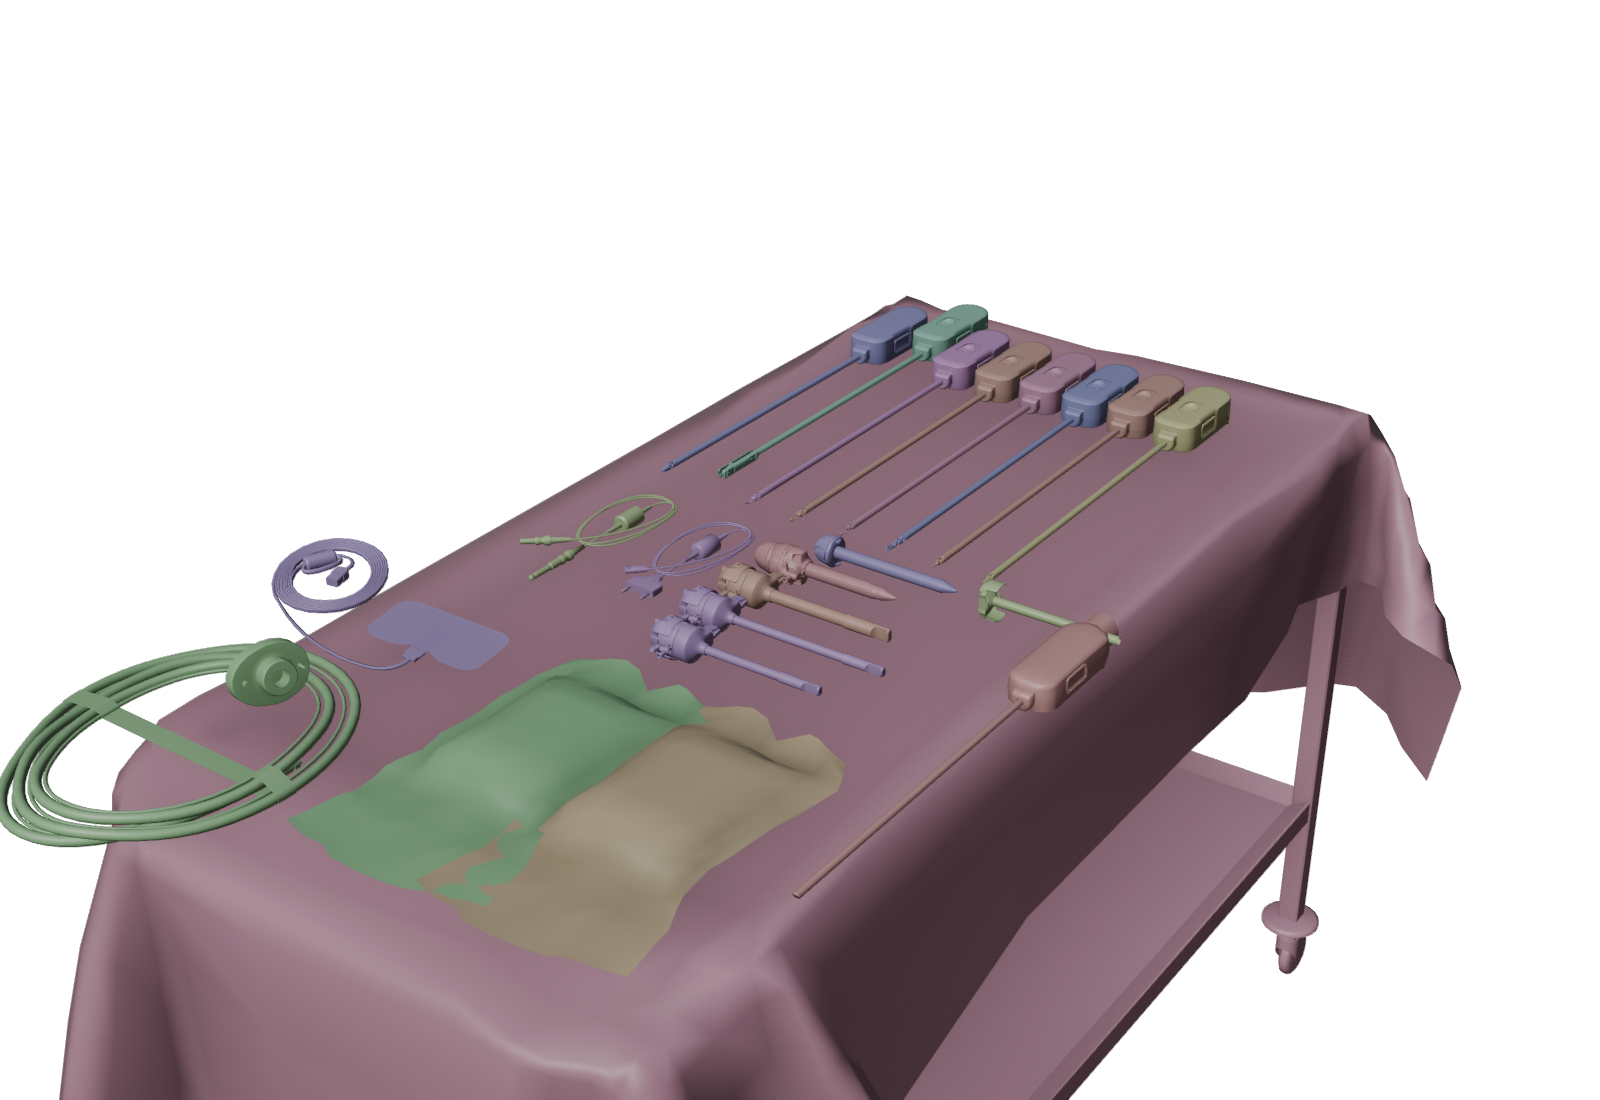
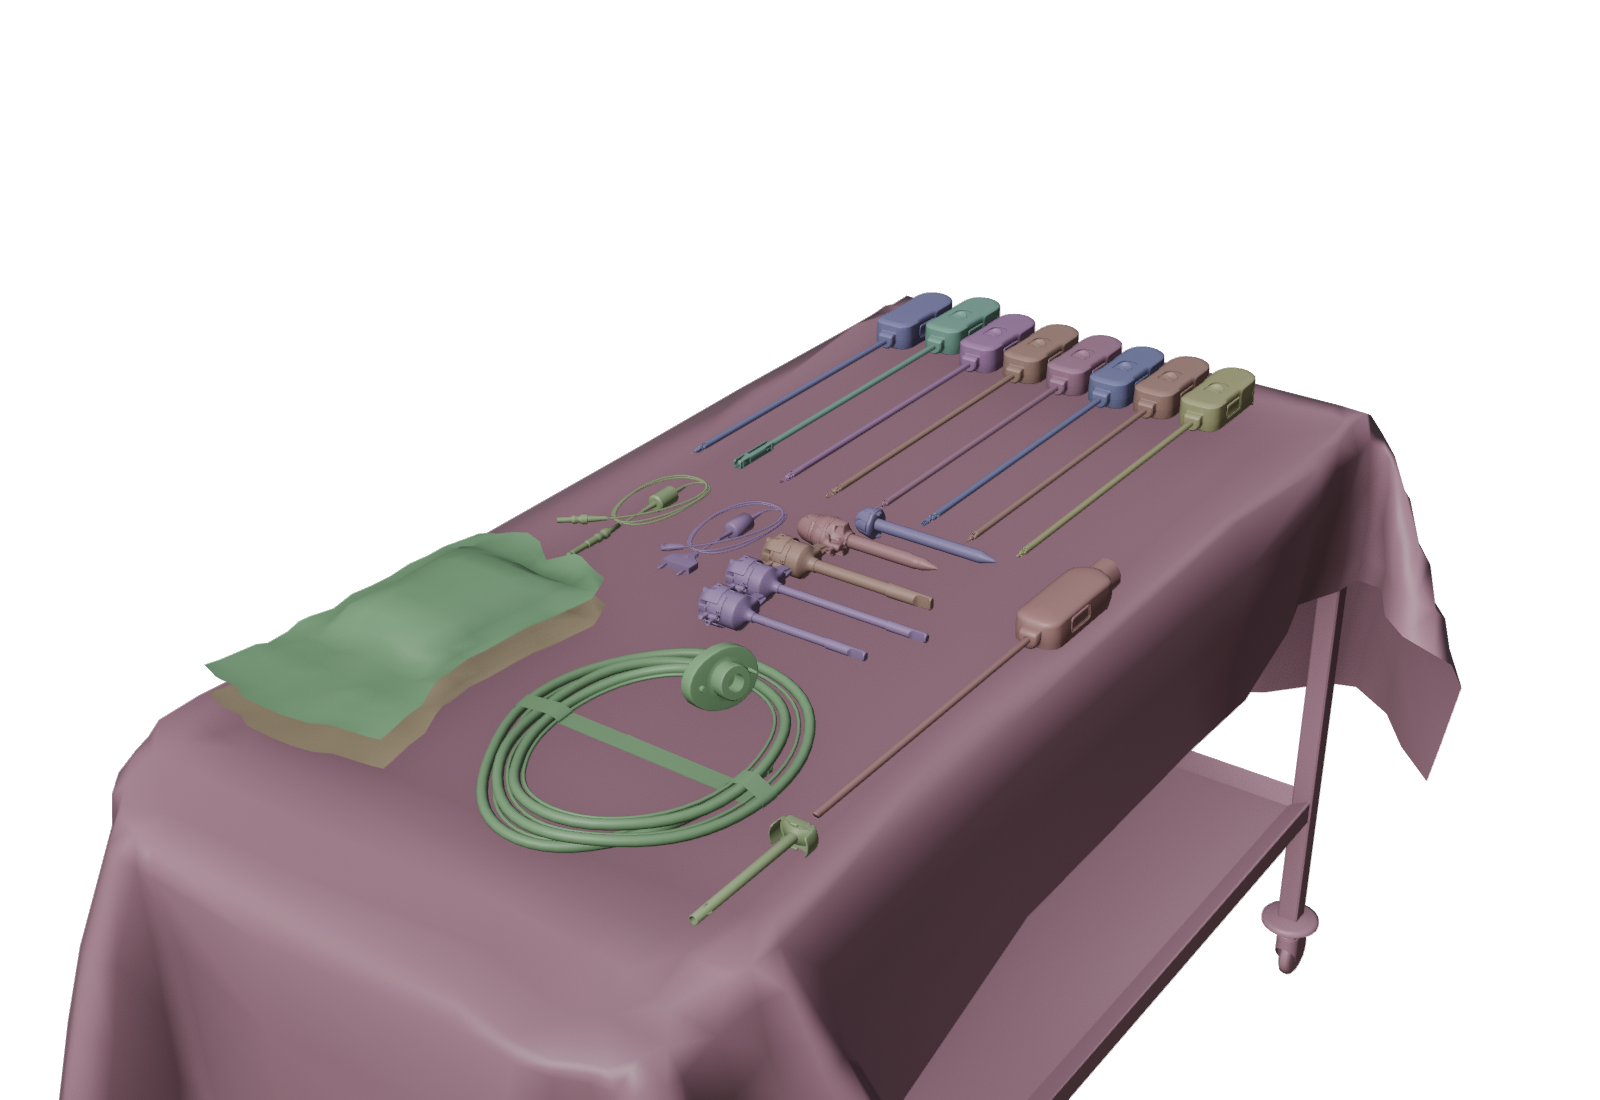
OTTAVA back table v2 layout: fit every item on the measured tabletop (drapes stacked, rack + trocars rearward, scope + downsizer right strip), drop return pad

Changed region(s): [[0.0, 0.4018, 0.7188, 0.8655], [0.5312, 0.2473, 0.7812, 0.4327]]

diff --git a/ottava-back-table.html b/ottava-back-table.html
@@ -230,8 +230,8 @@
   // Order and placement are illustrative for the PoC (Sean: "placement and order aren't paramount").
   const GROUPS=[
     {title:"Sterile drapes", items:[
-      {node:"drape_1", name:"Sterile drape pack 1", zone:"Front center, right", desc:"Sterile robotic arm drape, still folded in its pack. Lay it flat so the pack can be opened without dragging across other items."},
-      {node:"drape_2", name:"Sterile drape pack 2", zone:"Front center, left", desc:"Second arm drape pack, placed beside the first so both are reachable when the arms are draped."},
+      {node:"drape_1", name:"Sterile drape pack 1", zone:"Front left", desc:"Sterile robotic arm drape, still folded in its pack. Lay it flat so the pack can be opened without dragging across other items."},
+      {node:"drape_2", name:"Sterile drape pack 2", zone:"Front left, stacked on pack 1", desc:"Second arm drape pack, stacked squarely on the first so both are reachable when the arms are draped."},
     ]},
     {title:"Access", items:[
       {node:"trocar_8mm_std", name:"8 mm standard trocar", zone:"Center row, rear", desc:"Standard-length 8 mm trocar assembly: cannula, obturator, seal and tip cap. Tip pointing away from the sterile field edge."},
@@ -239,11 +239,11 @@
       {node:"trocar_12mm_std", name:"12 mm standard trocar", zone:"Center row", desc:"12 mm trocar for the larger-diameter instruments and specimen retrieval. Lies in line with the 8 mm trocars."},
       {node:"trocar_15mm", name:"15 mm trocar", zone:"Center row", desc:"15 mm sleeve with its obturator seated. Used where a stapler or larger device will pass."},
       {node:"obturator_15mm", name:"15 mm obturator", zone:"Center row, front", desc:"Spare 15 mm obturator, kept beside the 15 mm trocar."},
-      {node:"downsizer_12mm_std", name:"12 mm downsizer", zone:"Center row, right", desc:"Reducer that lets a smaller instrument pass through the 12 mm port without losing insufflation."},
+      {node:"downsizer_12mm_std", name:"12 mm downsizer", zone:"Right edge, front", desc:"Reducer that lets a smaller instrument pass through the 12 mm port without losing insufflation."},
     ]},
     {title:"Visualization and insufflation", items:[
       {node:"webbLiteEndo_30", name:"30° endoscope", zone:"Right edge", desc:"Angled endoscope with its light cable. Lies along the right edge, lens toward the rear, so the shaft is never under another item."},
-      {node:"insufflationTubing", name:"Insufflation tubing", zone:"Front left", desc:"Coiled, strapped insufflation tubing. Stays coiled until the first trocar is in and the line is handed off."},
+      {node:"insufflationTubing", name:"Insufflation tubing", zone:"Front center", desc:"Coiled, strapped insufflation tubing. Stays coiled until the first trocar is in and the line is handed off."},
     ]},
     {title:"Instruments", items:[
       {node:"mHook", name:"Monopolar hook", zone:"Rear rack, position 1", desc:"Monopolar energy hook. First instrument in the rack, far left, handle toward the rear."},
@@ -255,10 +255,9 @@
       {node:"largeNeedleDriver", name:"Large needle driver", zone:"Rear rack, position 7", desc:"Standard needle driver for suturing. Seventh rack position."},
       {node:"xL_needleDriver", name:"Extra-large needle driver", zone:"Rear rack, position 8", desc:"Extra-large needle driver for heavier suture. Last rack position, far right."},
     ]},
-    {title:"Energy and accessories", items:[
+    {title:"Energy", items:[
       {node:"monopolarCable_coil", name:"Monopolar cable", zone:"Left, middle", desc:"Coiled monopolar cable. Left of the instrument row, ready to connect to the hook and scissors."},
       {node:"bipolarCable_coil", name:"Bipolar cable", zone:"Left, middle", desc:"Coiled bipolar cable, beside the monopolar cable, for the Maryland and fenestrated forceps."},
-      {node:"returnPad", name:"Patient return pad", zone:"Left, front", desc:"Return electrode with its coiled cord. Last item on the table; it goes to the patient before any monopolar energy is used."},
     ]},
   ];
   const ITEMS=[]; GROUPS.forEach((g,gi)=>g.items.forEach((it,ii)=>ITEMS.push(Object.assign({gi,ii},it))));

diff --git a/hub/index.html b/hub/index.html
@@ -82,7 +82,7 @@
       <td><b>OTTAVA back table setup, education PoC for Sean Peterson (J&amp;J Institute).</b> Learn mode: 21 items slide onto the back table one per step in use order (drapes, trocars, scope + insufflation, 8 wristed instruments, cables + return pad) and stay placed; per-item camera framing. Quiz mode: "what goes on the table next?" multiple choice, hint ghosts the item in place, item animates on after each answer; end summary with score, time, hints, miss list. Phone-first layout.</td>
       <td class="d">2026-10-02</td>
       <td class="u"><code>75b563ef-48ef-416f-8f1d-3789b2fb91ec</code> (DCicero / <code>jj-demo</code>, @vntana/viewer bundle, env studio.hdr). Merged GLB built by <code>admin/ottava/merge.py</code> + <code>layout.json</code> from 21 individual J&amp;J assets copied into jj-demo (29 UUIDs in the project memory).</td>
-      <td class="n"><b>OTTAVA is pre-launch and under NDA: do not list this page anywhere public, do not forward outside J&amp;J + VNTANA.</b> Page is gated with access code <code>JohnsonPOC2027</code> (client-side SHA-256 check, case-insensitive, remembered per browser session; a soft gate, not a security control). Sequence and placement are illustrative (Sean: not paramount). Positions come from J&amp;J's rigged composite (instruments_and_accessories_web_v016), which is one fused skinned mesh so it is reference only. Dropped for v1: liver retractor (L-shaped, not on J&amp;J's table), trays (hidden in J&amp;J's composite), universalSealPack (never uploaded at J&amp;J). Phase-2 idea: J&amp;J's 35 instrument-handling clips as per-item "how to prep" buttons if the viewer can play named clips.</td></tr>
+      <td class="n"><b>OTTAVA is pre-launch and under NDA: do not list this page anywhere public, do not forward outside J&amp;J + VNTANA.</b> Page is gated with access code <code>JohnsonPOC2027</code> (client-side SHA-256 check, case-insensitive, remembered per browser session; a soft gate, not a security control). Sequence and placement are illustrative (Sean: not paramount). Positions come from J&amp;J's rigged composite (instruments_and_accessories_web_v016), which is one fused skinned mesh so it is reference only. Dropped: liver retractor (L-shaped, not on J&amp;J's table), trays (hidden in J&amp;J's composite), universalSealPack (never uploaded at J&amp;J), return pad (v2: no room on the real tabletop; applied to the patient, not staged sterile). v2 layout (Oct 2) fits the MEASURED flat top x[-0.33,0.41] z[-0.69,0.77] m: drapes stacked front-left, insufflation front-center, scope + downsizer in the right-edge strip, rack and trocars shifted rearward. Phase-2 idea: J&amp;J's 35 instrument-handling clips as per-item "how to prep" buttons if the viewer can play named clips.</td></tr>
     <tr class="keep">
       <td><a href="/oh1-work-instruction.html" target="_blank">oh1-work-instruction.html</a><div class="grp">Hydro</div></td>
       <td><b>Cortona-style work instruction, OH1 Goulds 3196 pump.</b> Two modes: Procedure walk-through and Parts Explorer (click-to-highlight + zoom, BOM table, clickable cross-refs). <b>Per Dan (Hydro) Sep-9 feedback: procedure now broken into SUB-STEPS (23 total across 9 steps) with sequential CUMULATIVE part removal</b> - each remove sub-step slides its part off and it stays removed so the next is reachable (liability: never show removing a physically-blocked part). Manual/tool sub-steps (lockout, pail, sling, hoist, shaft wrench) are text-only, tagged; generic placeholder tools + torque sequences + set-screws = next pass. Loose fasteners stashed off-screen except ones a sub-step removes (408 plug). Regroup with Dan ~Sep 28.</td>

diff --git a/admin/ottava/merge.py b/admin/ottava/merge.py
@@ -57,7 +57,7 @@ for it in layout['items']:
         mn,mx=ext(o); report.append(f"trolley {fmt(mn,mx)} top(central)={top:.3f}")
     else:
         p=list(it['pos'])
-        if p[1]=='top': p[1]=top
+        if isinstance(p[1],str) and p[1].startswith('top'): p[1]=top+float(p[1][3:] or 0)
         o.location=g2b(p); o.location.z = p[1]-mn.z+0.002
         bpy.context.view_layer.update(); mn2,mx2=ext(o)
         report.append(f"{it['name']:22s} pre={pre}  ->  {fmt(mn2,mx2)}")
@@ -81,7 +81,7 @@ for img in bpy.data.images:
     if max(img.size)>2048: img.scale(2048,2048)
 report.append(f"images: {len(bpy.data.images)} {[ (i.name,i.size[0],i.file_format) for i in bpy.data.images][:40]}")
 report.append(f"materials: {[m.name for m in bpy.data.materials]}  objects: {len(bpy.data.objects)}")
-glb=os.path.join(OUT,'ottava-back-table-v1.glb')
+glb=os.path.join(OUT,'ottava-back-table-v2.glb')
 bpy.ops.export_scene.gltf(filepath=glb, export_format='GLB', export_apply=True, export_draco_mesh_compression_enable=False,
     export_image_format='JPEG', export_jpeg_quality=85, export_animations=False, export_skins=False, export_yup=True)
 report.append(f"exported {glb} {os.path.getsize(glb)/1e6:.1f} MB")
